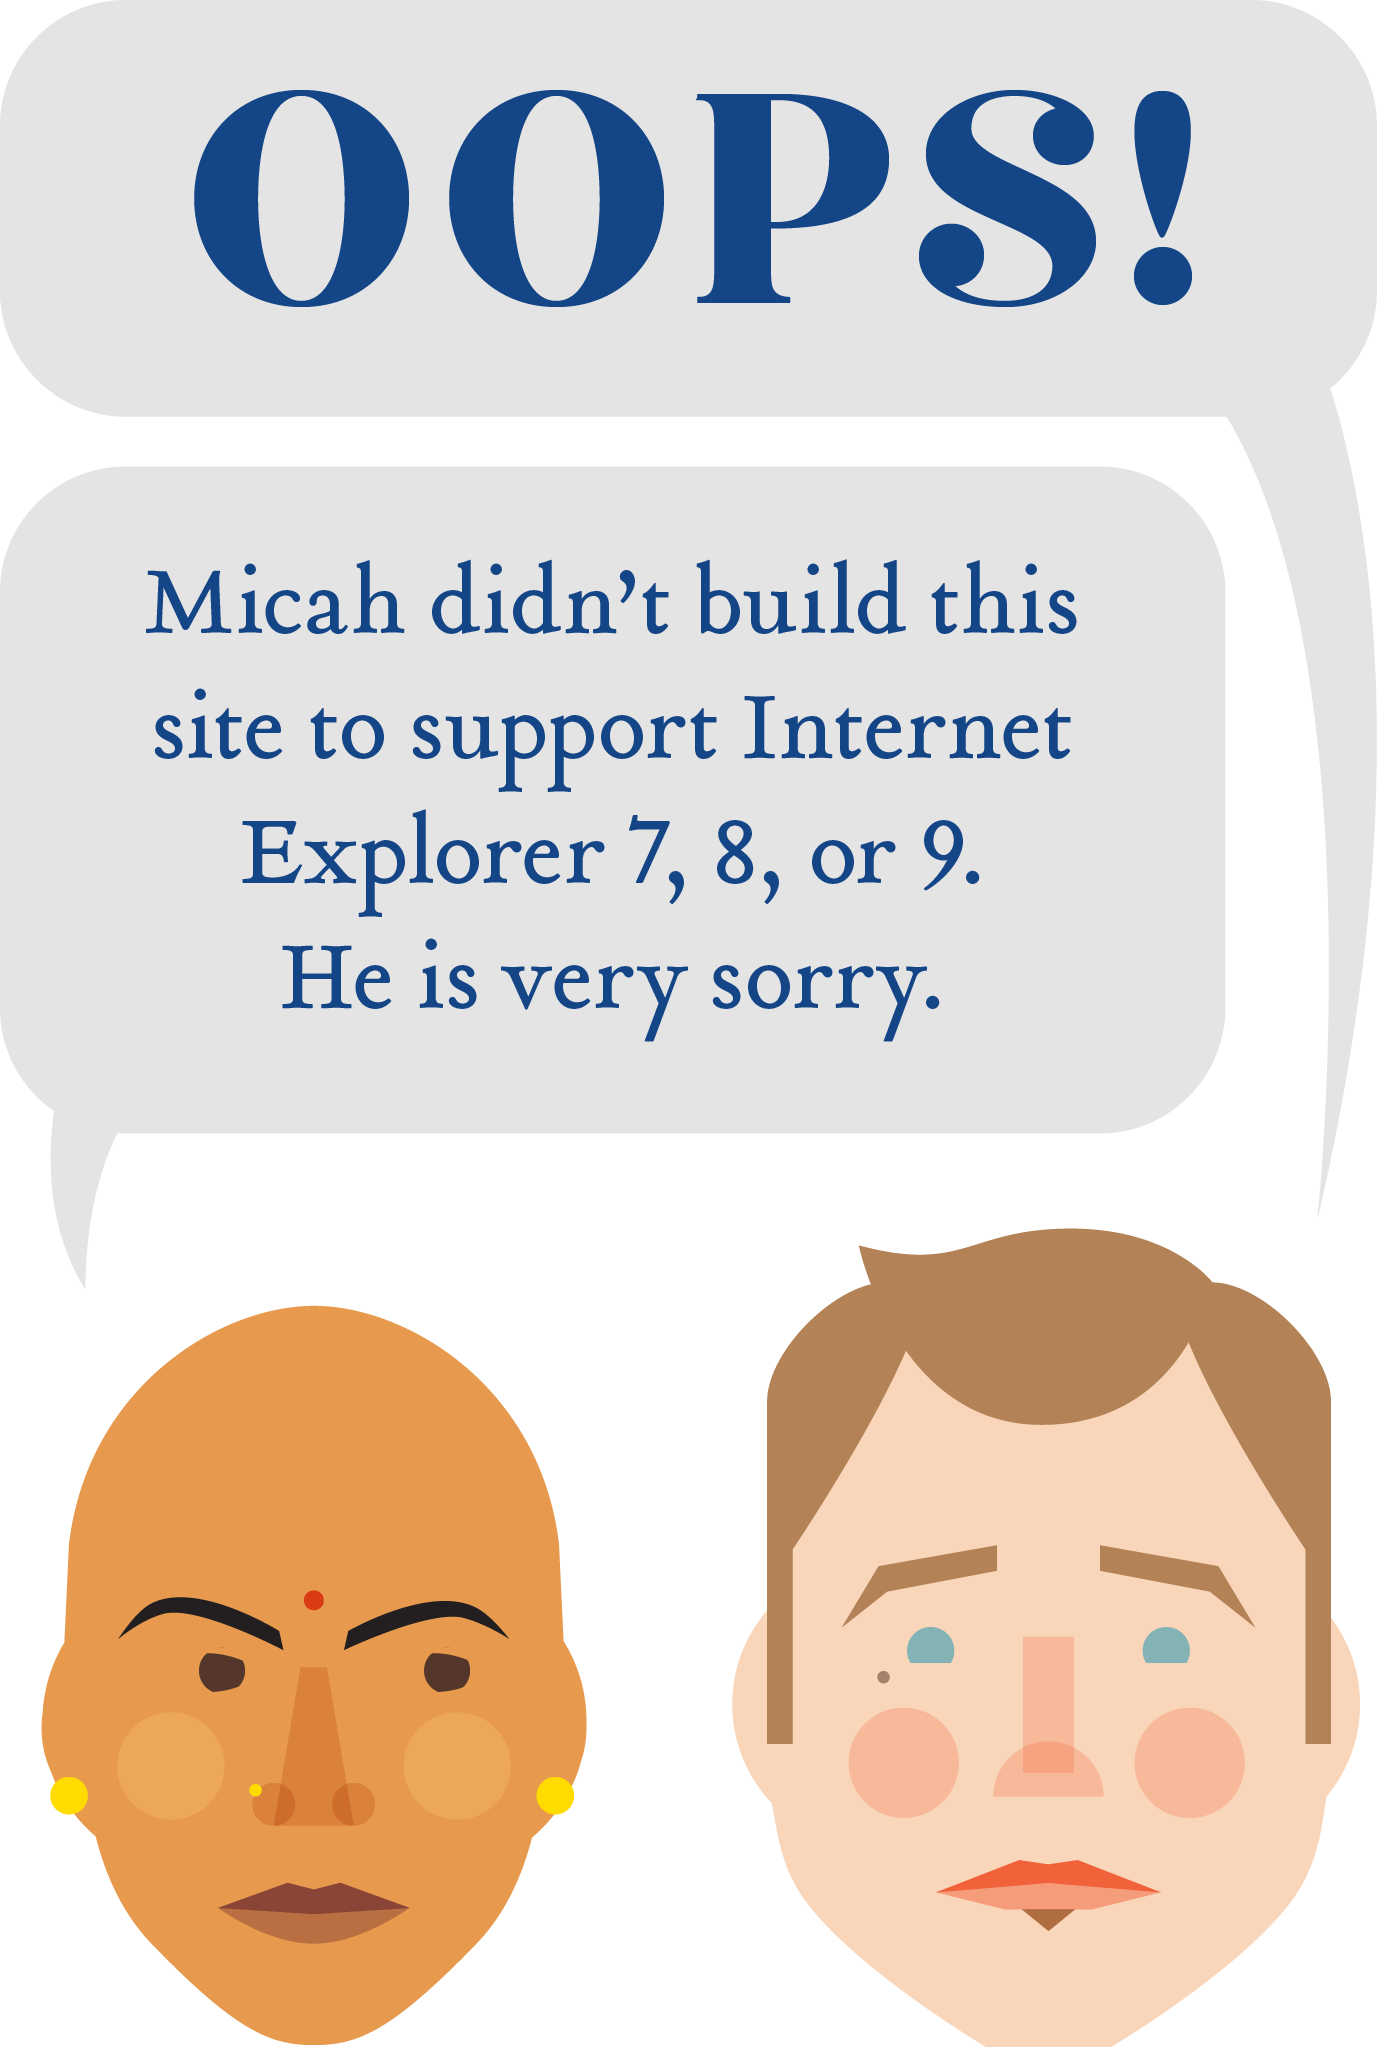
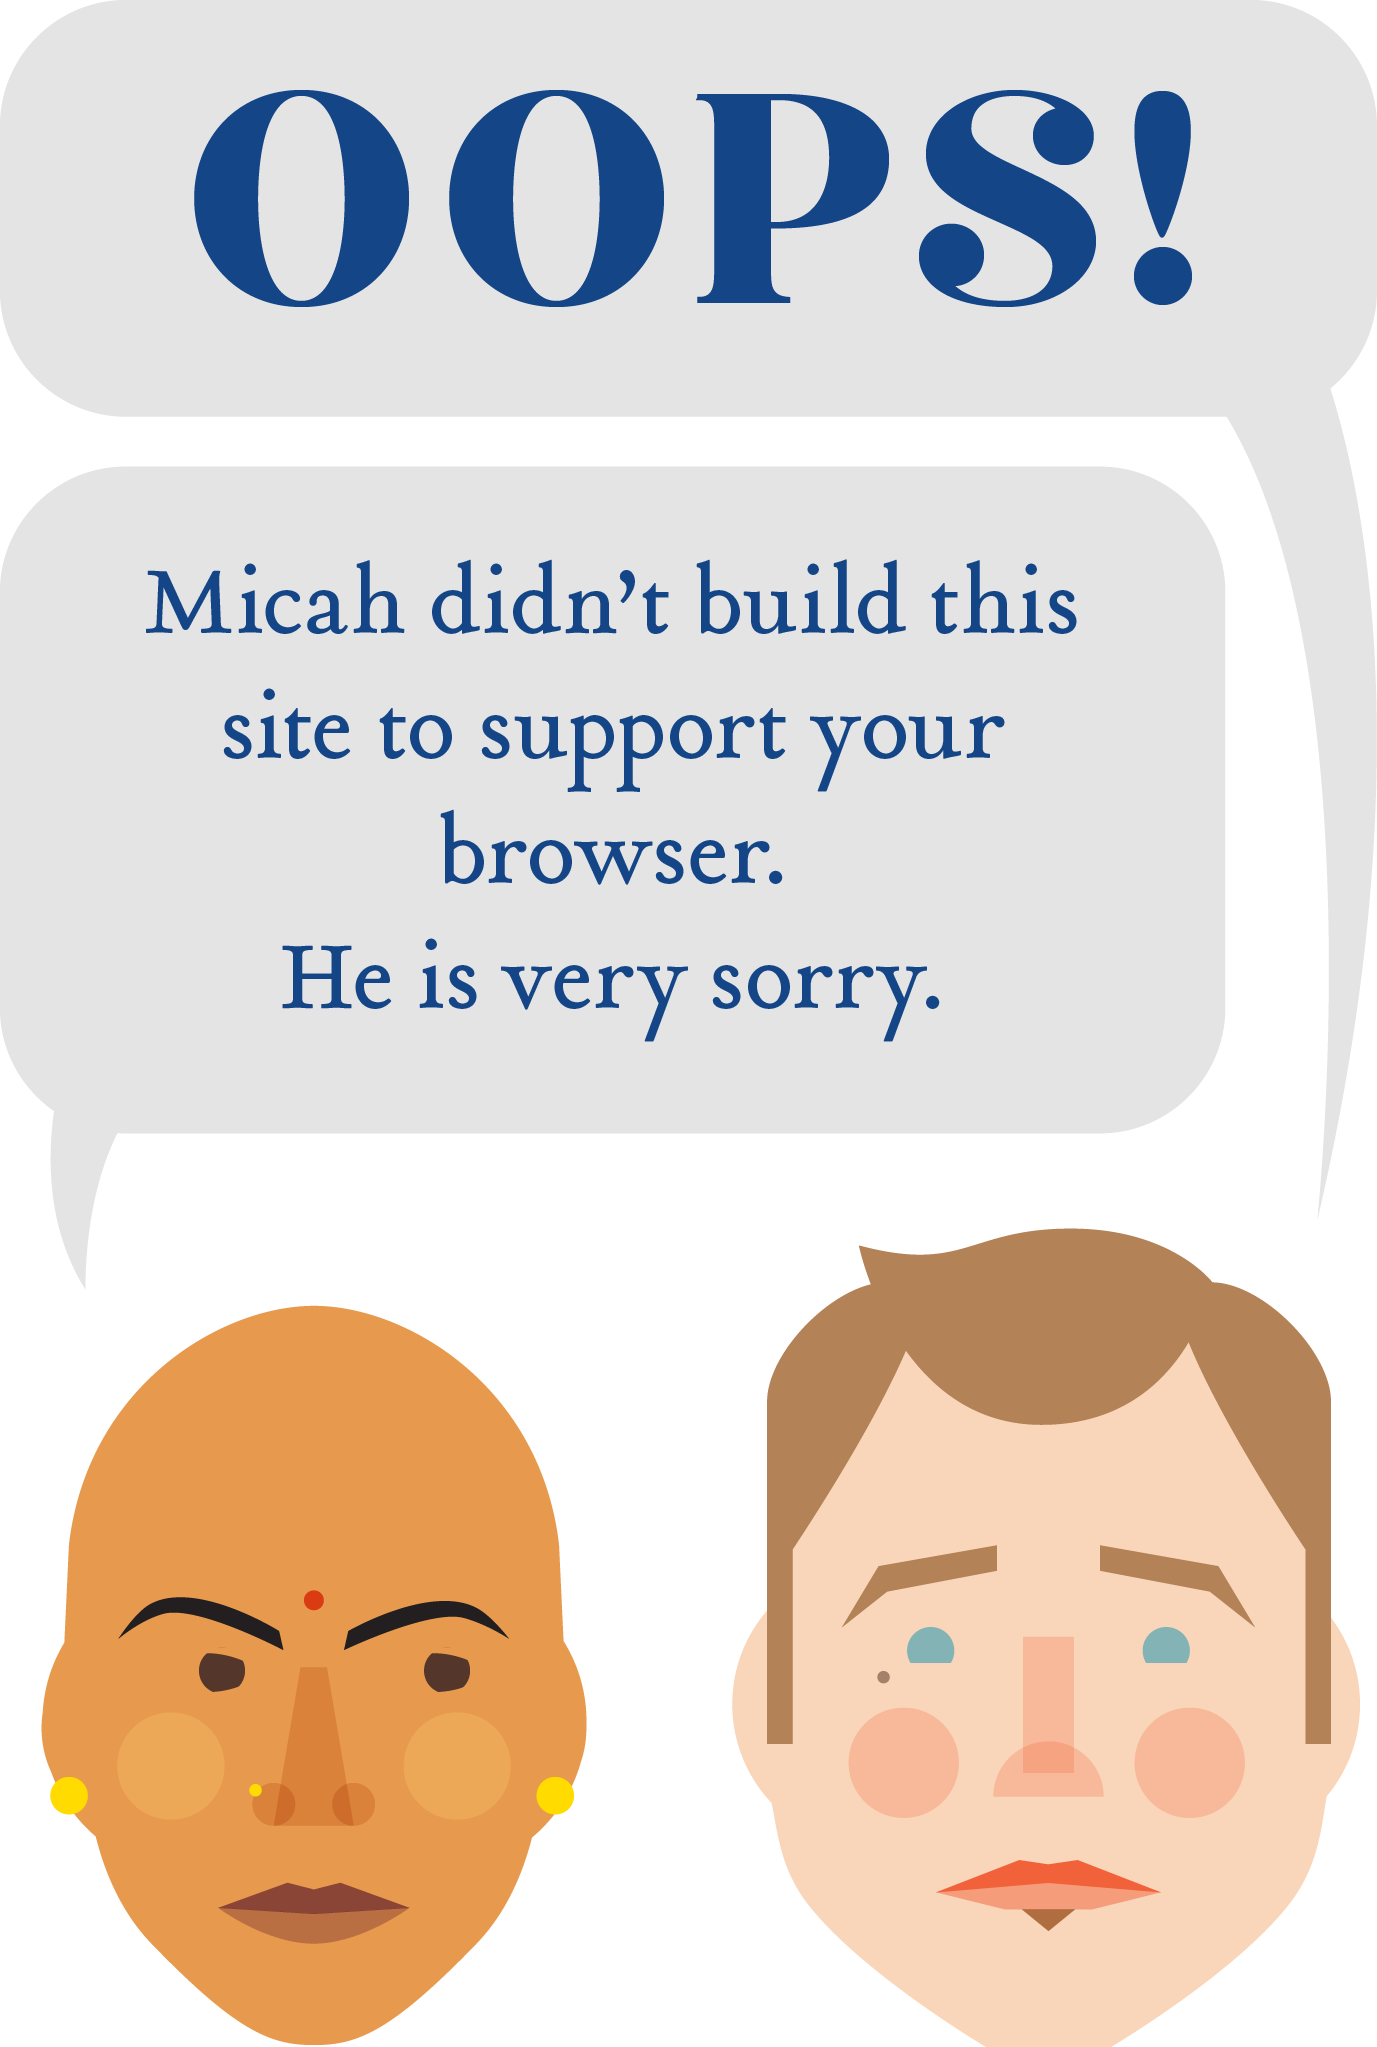
Improve browser support

Changed region(s): [[0.0937, 0.3385, 0.7807, 0.4617]]

diff --git a/js/browserSupport.js b/js/browserSupport.js
@@ -1,3 +1,6 @@
-if (typeof document.createElement("div").classList === "undefined") {
+if (
+  typeof window.hasOwnProperty === "undefined" ||
+  typeof document.createElement("div").classList === "undefined"
+) {
   window.location = "/unsupportedBrowser.php";
 }
